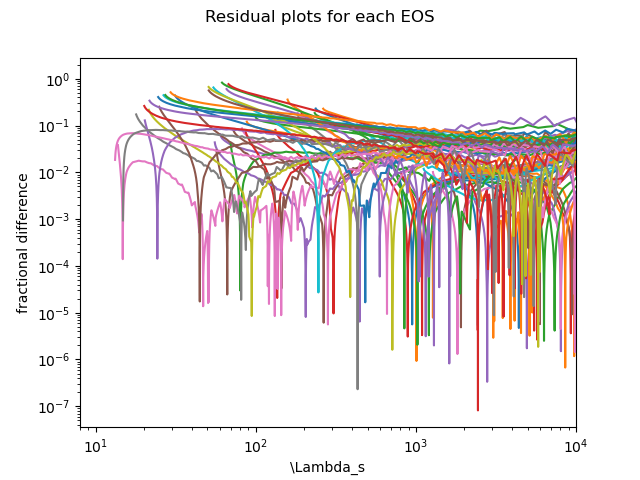
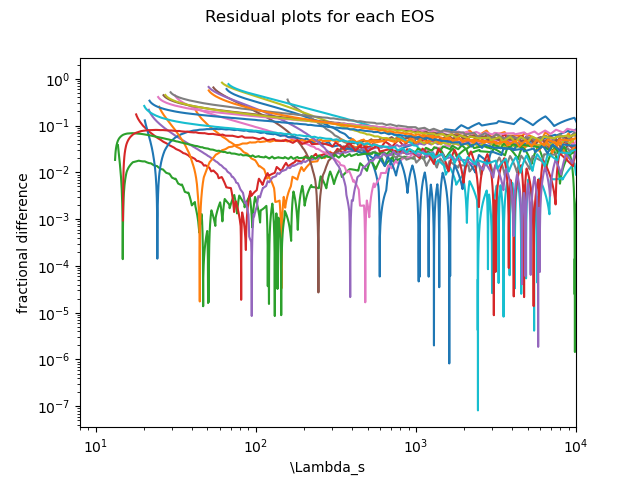
wrote combined plot to plot main and residual on same fig

Changed region(s): [[0.1562, 0.1562, 0.9062, 0.8438]]

diff --git a/plotter.py b/plotter.py
@@ -43,6 +43,12 @@ class Plotter:
 
             fit.plot(ax=ax, lims=(lower_lim, upper_lim))
 
+        ax.set_ylim((self.ax_min, self.ax_max))
+        ax.set_xlim((self.ax_min, self.ax_max))
+
+        ax.set_xscale('log')
+        ax.set_yscale('log')
+
     def plot_residual_on_ax(self, ax):
         for q in self.qs:
             dictionary = self.qs_dict[str(q)]
@@ -51,16 +57,15 @@ class Plotter:
                 y = dictionary[name + '_residual']
                 ax.plot(x, y, label=name + ' q=' + str(q))
 
-
-    def plot_main(self, save=False, show=False):
-        fig, ax = plt.subplots(1, 1)
-        self.plot_main_on_ax(ax=ax)
-
-        ax.set_ylim((self.ax_min, self.ax_max))
         ax.set_xlim((self.ax_min, self.ax_max))
 
         ax.set_xscale('log')
         ax.set_yscale('log')
+
+
+    def plot_main(self, save=False, show=False):
+        fig, ax = plt.subplots(1, 1)
+        self.plot_main_on_ax(ax=ax)
 
         ax.set_xlabel(r'\Lambda_s')
         ax.set_ylabel(r'\Lambda_a')
@@ -77,11 +82,6 @@ class Plotter:
         fig, ax = plt.subplots(1, 1)
         self.plot_residual_on_ax(ax=ax)
 
-        ax.set_xlim((self.ax_min, self.ax_max))
-
-        ax.set_xscale('log')
-        ax.set_yscale('log')
-
         ax.set_xlabel(r'\Lambda_s')
         ax.set_ylabel('fractional difference')
 
@@ -89,6 +89,16 @@ class Plotter:
 
         if save:
             fig.savefig('plots/residual_plot.png')
+        if show:
+            fig.show()
+
+    def plot_combined(self, save=False, show=False):
+        fig, (ax1, ax2) = plt.subplots(2, 1)
+        self.plot_main_on_ax(ax=ax1)
+        self.plot_residual_on_ax(ax=ax2)
+
+        if save:
+            fig.savefig('plots/combined_plot.png')
         if show:
             fig.show()
 

diff --git a/main.py b/main.py
@@ -4,7 +4,7 @@ from plotter import Plotter
 names = ['alf2cr', 'alf4cr', 'bsk20cr', 'bsk21cr', 'bsr2cr', 'dd2ycr', 'ddhdcr', 'ddq2acr', 'gm1bcr', 'h4cr',
          'hqc18cr', 'hqc19cr', 'mpa1cr', 'nl3cr', 'nl3ycr', 'rscr', 'sk255cr', 'ski2cr', 'skopcr', 'sly230acr',
          'slycr', 'tm1cr']
-qs = [0.5, 0.75, 0.9]
+qs = [0.9]
 
 ax_min = 8
 ax_max = 1e4
@@ -14,3 +14,4 @@ plotter = Plotter(names=names, qs=qs, Fit=YagiYunes, ax_lims=(ax_min, ax_max))
 plotter.plot_main(save=True)
 plotter.plot_residual(save=True)
 plotter.plot_raw(save=True)
+plotter.plot_combined(save=True)
